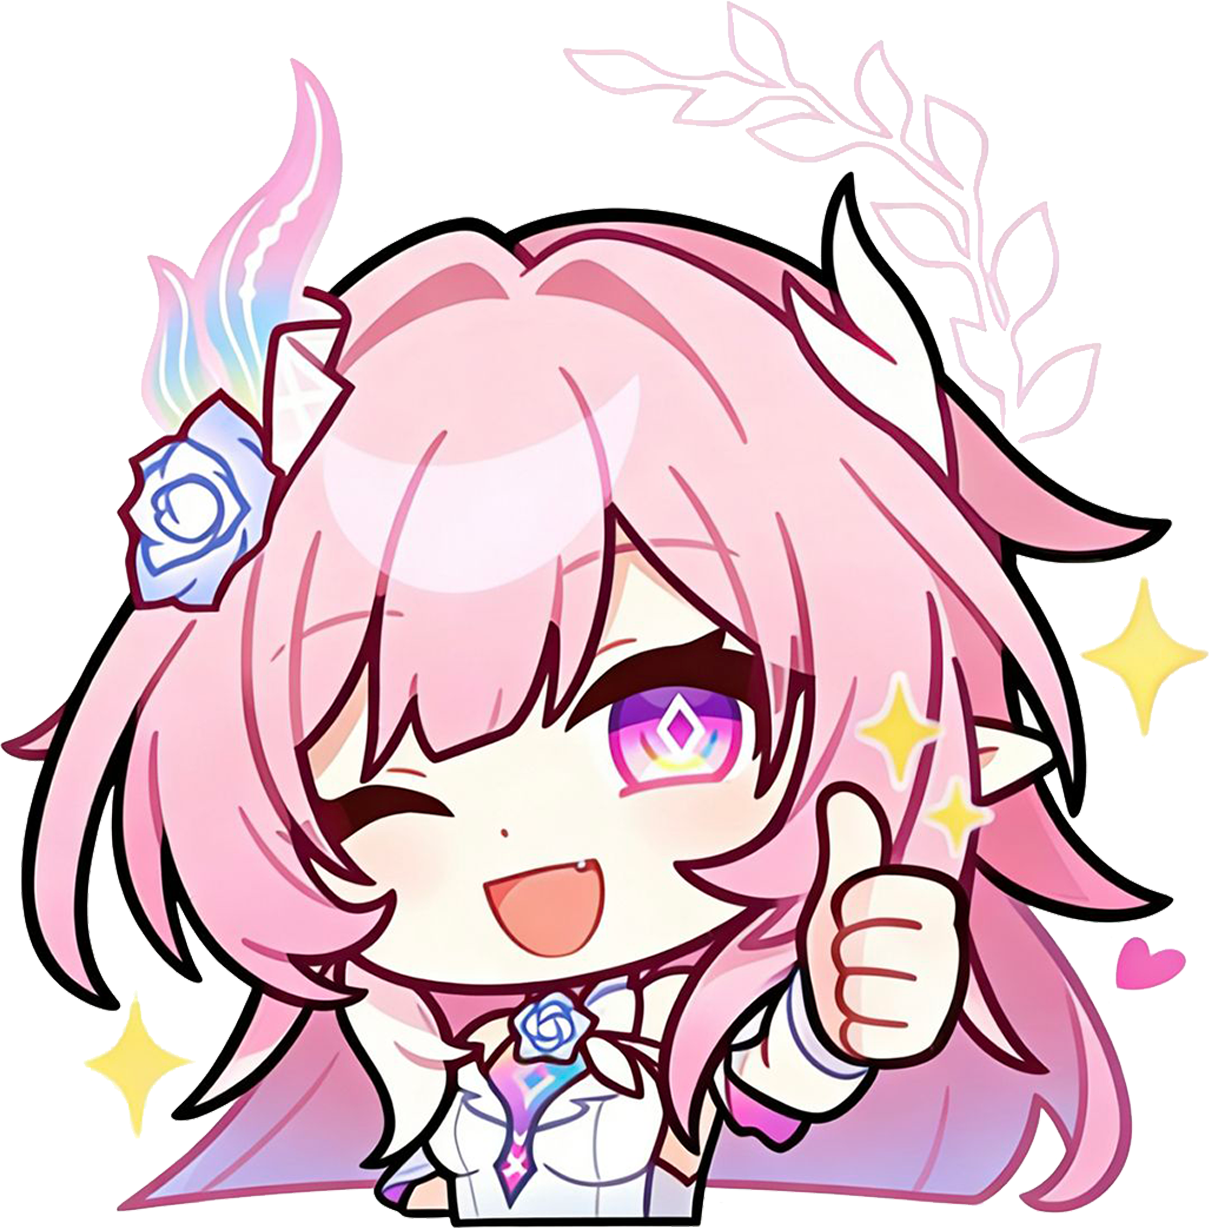
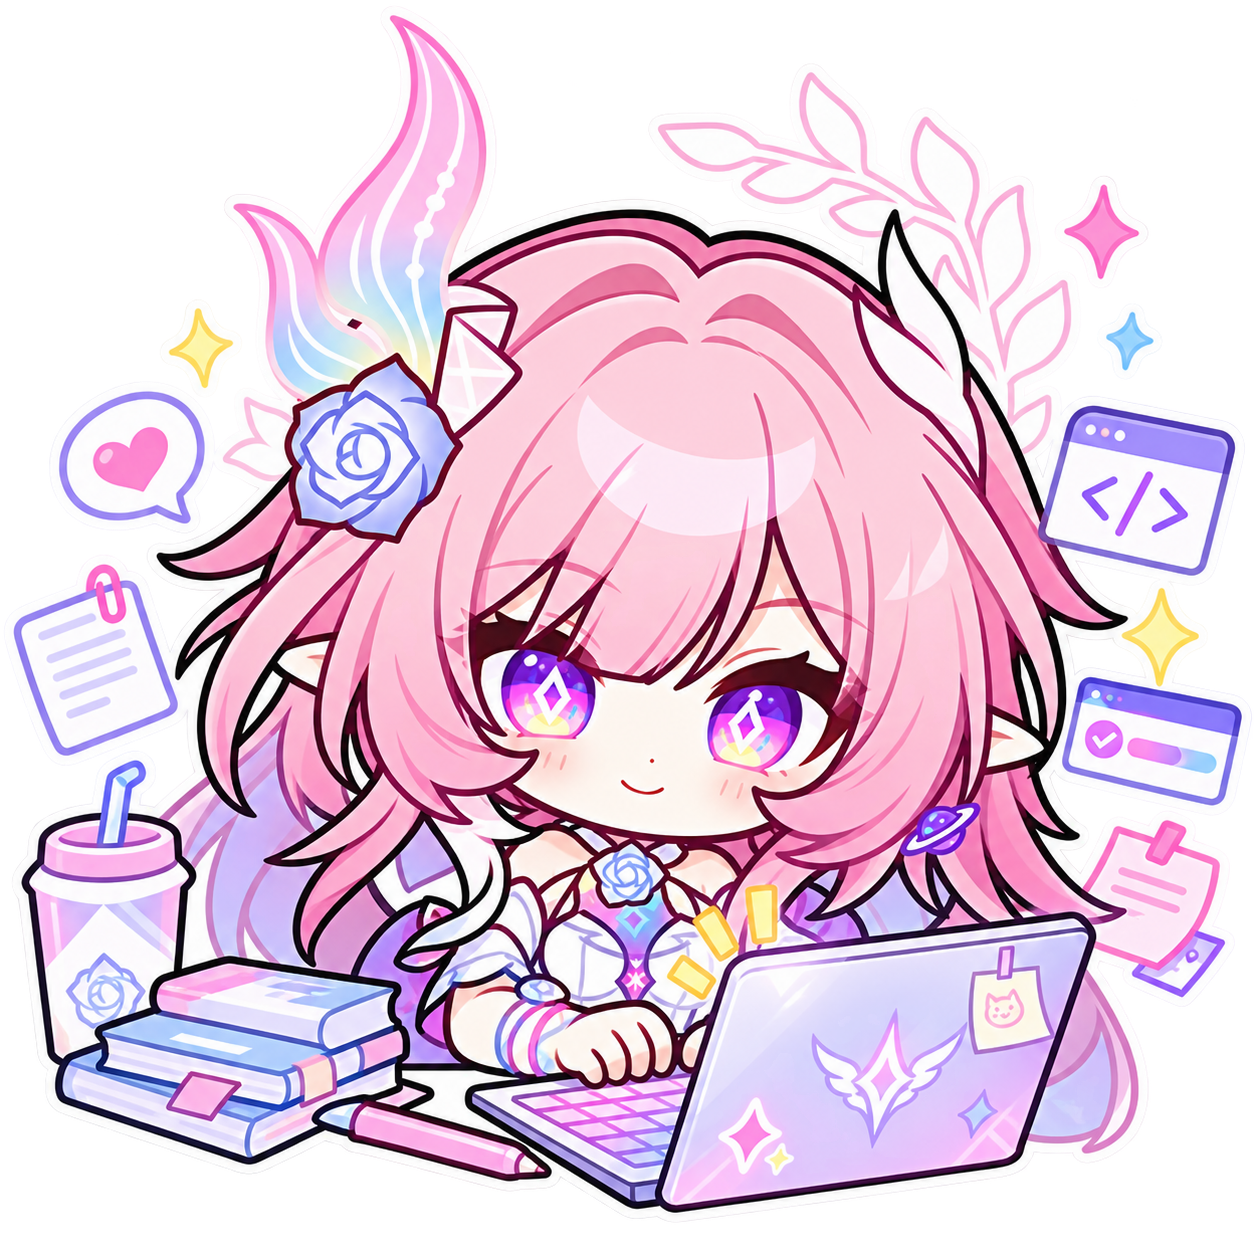
feat(assets): 更新交互卡/Todo卡/思考组件小人图，Todo 按模式分图，Code 卡文案改 Coding

diff --git a/src/renderer/react/features/chat/components/TodoPanel.tsx b/src/renderer/react/features/chat/components/TodoPanel.tsx
@@ -1,6 +1,7 @@
 import { useMemo } from "react";
 import type { TodoState } from "../../../../shared/todo-types";
-import reminderPngUrl from "../../../assets/status-moods/提醒.png?url";
+import workTodoPngUrl from "../../../assets/status-moods/提醒.png?url";
+import learnTodoPngUrl from "../../../assets/status-moods/学习.png?url";
 import { useFloatingCard } from "./floating-card";
 import "./TodoPanel.css";
 
@@ -102,7 +103,7 @@ export function TodoPanel({ state, mode }: TodoPanelProps) {
         </div>
 
         <div className="cy-todo__hero">
-          <img className="cy-todo__mascot" src={reminderPngUrl} alt="提醒" />
+          <img className="cy-todo__mascot" src={mode === "learn" ? learnTodoPngUrl : workTodoPngUrl} alt="提醒" />
           <div className="cy-todo__hero-text">
             <div className="cy-todo__hero-title">当前任务</div>
             <div className="cy-todo__hero-sub">

diff --git a/src/renderer/react/features/chat/components/CodeGitPanel.tsx b/src/renderer/react/features/chat/components/CodeGitPanel.tsx
@@ -96,7 +96,7 @@ export function CodeGitPanel({ sessionId, projectName, todoState }: CodeGitPanel
       </button>
 
       <div className="cy-code-git__body">
-        <div className="cy-code-git__mode"><i aria-hidden="true" />模式：Code</div>
+        <div className="cy-code-git__mode"><i aria-hidden="true" />Coding</div>
         <div className="cy-code-git__hero">
           <img className="cy-code-git__mascot" src={workingPngUrl} alt="工作中" />
           <div className="cy-code-git__project">

diff --git a/src/renderer/react/features/chat/components/CodeGitPanel.test.ts b/src/renderer/react/features/chat/components/CodeGitPanel.test.ts
@@ -25,7 +25,7 @@ describe("CodeGitPanel", () => {
       todoState: { updatedAt: 1, todos: [{ id: "t1", content: "完成审阅 UI", status: "pending" }] },
     }));
 
-    expect(html).toContain("模式：Code");
+    expect(html).toContain("Coding");
     expect(html).toContain("cyrene-project");
     expect(html).toContain("分支切换");
     expect(html).toContain("提交或推送");
